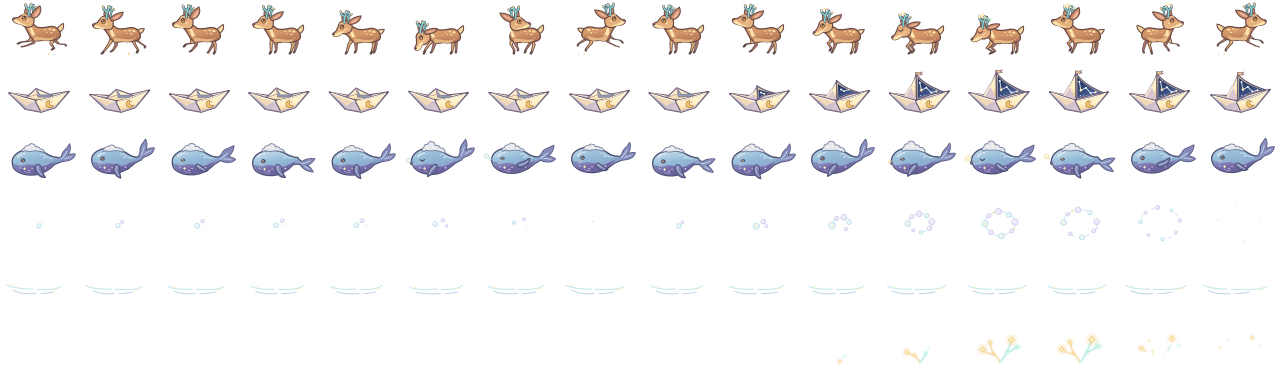
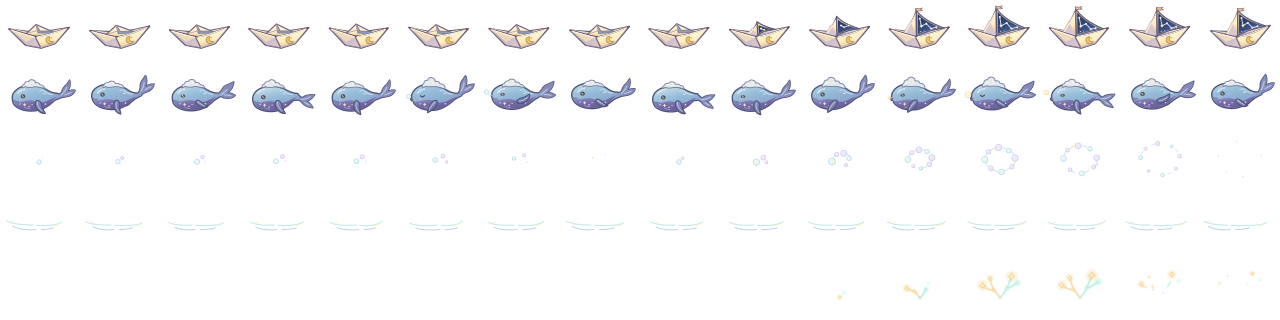
Repaint the star fawn with sixteen illustrated campfire poses

diff --git a/src/camp-encounter-art.ts b/src/camp-encounter-art.ts
@@ -12,14 +12,15 @@ const feet = benchRest("meadow", campSeat, campSeat).anchor;
 const cell = 48;
 const campAtlas = {sheet:"campEncounterVisitors", width:cell, height:cell} as const;
 const fantasyAtlas = {sheet:"campFantasy", width:80, height:64} as const;
+const fawnAtlas = {sheet:"campStarFawn", width:160, height:128} as const;
 const sprites = {
   bird:        {atlas:campAtlas, row:0, scale:.30, origin:[24,36], hit:[-.5,-4,5.3,4]},
   butterfly:   {atlas:campAtlas, row:1, scale:.21, origin:[24,26], hit:[0,-.7,4.2,3.2]},
   jelly:       {atlas:campAtlas, row:2, scale:.34, origin:[22,40], hit:[.7,-6.4,5.2,6.5]},
   marshmallow: {atlas:campAtlas, row:3, scale:.30, origin:[24,23], hit:[0,0,3.6,3]},
-  starFawn:    {atlas:fantasyAtlas, row:0, scale:.42, origin:[40,54], hit:[0,-9,12,9.5]},
-  moonBoat:    {atlas:fantasyAtlas, row:1, scale:.35, origin:[40,48], hit:[0,-3,10.8,5]},
-  cloudWhale:  {atlas:fantasyAtlas, row:2, scale:.39, origin:[40,36], hit:[0,-1,12,7]},
+  starFawn:    {atlas:fawnAtlas, row:0, scale:.21, origin:[80,108], hit:[0,-10,12,11]},
+  moonBoat:    {atlas:fantasyAtlas, row:0, scale:.35, origin:[40,48], hit:[0,-3,10.8,5]},
+  cloudWhale:  {atlas:fantasyAtlas, row:1, scale:.39, origin:[40,36], hit:[0,-1,12,7]},
 } as const;
 
 type Offset = readonly [number, number];
@@ -27,7 +28,7 @@ type Landmark = Parameters<typeof campEncounterLandmark>[0];
 // Named stops follow the outfit's painted knee, cuff, hem or mouth.
 // Coordinates are world-pixel offsets from the seated player's feet.
 const roast: Offset = [-27.5,-25.5];
-const fawnBow: Offset = [18.5,-1.2];
+const fawnBow: Offset = [21.5,-1.2];
 const paths: Record<CampEncounterId, {start: Offset; poses: readonly (Offset | Landmark)[]}> = {
   bird: {start: [-48,-30], poses: [
     [-40,-23],[-31,-15],[-23.5,-5],[-21,1],
@@ -112,29 +113,33 @@ const waitingLoops = {
   bird:      {rate:2, cels:[3,3,11,13,3,3]},
   butterfly: {rate:8, cels:[3,2,6,2,4,3]},
   jelly:     {rate:3.5, cels:[3,4,5,4,3,3]},
-  starFawn:  {rate:2, cels:[3,3,3,4,3]},
+  starFawn:  {rate:2, cels:[3,3,3,8,8,3]},
   moonBoat:  {rate:2, cels:[3,3,3,4,3]},
   cloudWhale:{rate:2.5, cels:[3,2,3,0]},
 } as const;
 
 function displayCel(event: Readonly<CampEncounter>, frame: number, still: boolean) {
-  if (still || event.phase !== "waiting") return frame;
+  if (still) return frame;
+  // Retrace the half-bow before coming upright; the seated player's timing stays in sync.
+  if (event.id === "starFawn" && event.phase === "active" && frame === 13 && event.elapsed < 2.2) return 10;
+  if (event.phase !== "waiting") return frame;
   if (event.id === "marshmallow") return event.elapsed < 3 ? frame : 8;
   const {rate,cels} = waitingLoops[event.id];
   return cels[Math.floor(event.elapsed*rate) % cels.length];
 }
 
-const antlerTips: readonly Offset[] = [[24.9,8.45],[23.3,13],[22.85,14.9],[28,4.4]];
-function drawAntlerStars(c: CanvasRenderingContext2D, frame: number, at: Point) {
+// Painted gold tip in each 160 × 128 cel, from the half-bow through the rise.
+const antlerTips: readonly Offset[] = [[41,24.5],[32,36.6],[32.2,43.2],[53.2,16.1]];
+function drawAntlerStars(c: CanvasRenderingContext2D, frame: number, deerCel: number, at: Point) {
   if (frame < 10) return;
   // The bottom star touches the painted tine until the fawn turns away.
   // The last two cels leave the broken constellation hanging over the grass.
-  const [u,v] = antlerTips[Math.min(frame-10,3)];
+  const [u,v] = antlerTips[Math.min(deerCel-10,3)];
   const deer = sprites.starFawn;
   const x = feet.x + (frame<14 ? at.x : fawnBow[0]) + (u-deer.origin[0])*deer.scale;
   const y = feet.y + (frame<14 ? at.y : fawnBow[1]) + (v-deer.origin[1])*deer.scale;
   const scale = .27;
-  c.drawImage(sceneArt.campFantasy,frame*80,5*64,80,64,x-40*scale,y-42*scale,80*scale,64*scale);
+  c.drawImage(sceneArt.campFantasy,frame*80,4*64,80,64,x-40*scale,y-42*scale,80*scale,64*scale);
 }
 
 // The first pearl appears at the painted muzzle as the whale exhales on cel 11.
@@ -157,7 +162,7 @@ function drawStarRing(c: CanvasRenderingContext2D, elapsed: number, still: boole
   const t = a === b ? 0 : (age-a.time)/(b.time-a.time);
   const x = feet.x+a.x+(b.x-a.x)*t, y = feet.y+a.y+(b.y-a.y)*t;
   const scale = .38;
-  c.drawImage(sceneArt.campFantasy,a.cel*80,3*64,80,64,x-40*scale,y-32*scale,80*scale,64*scale);
+  c.drawImage(sceneArt.campFantasy,a.cel*80,2*64,80,64,x-40*scale,y-32*scale,80*scale,64*scale);
 }
 
 function drawRoastingRack(c: CanvasRenderingContext2D) {
@@ -200,10 +205,12 @@ function drawVisitor(c: CanvasRenderingContext2D, event: Readonly<CampEncounter>
     c.beginPath(); c.ellipse(x-.4,feet.y+1.25,4.7,1.15,0,0,Math.PI*2); c.fill();
   }
   if (id === "starFawn") {
+    c.imageSmoothingEnabled = true;
+    c.imageSmoothingQuality = "high";
     c.fillStyle = "#333e4052"; c.beginPath();
     c.ellipse(x+.5,y+.4,8.6,1.45,0,0,Math.PI*2); c.fill();
   } else if (id === "moonBoat") {
-    c.drawImage(sheet,cel*width,4*height,width,height,
+    c.drawImage(sheet,cel*width,3*height,width,height,
       x-40*scale,y-32*scale+.4,width*scale,height*scale);
   }
   if (id === "butterfly") {
@@ -213,7 +220,7 @@ function drawVisitor(c: CanvasRenderingContext2D, event: Readonly<CampEncounter>
   }
   c.drawImage(sheet,cel*width,row*height,width,height,
     x-origin[0]*scale,y-origin[1]*scale,width*scale,height*scale);
-  if (id === "starFawn" && phase === "active") drawAntlerStars(c,frame,at);
+  if (id === "starFawn" && phase === "active") drawAntlerStars(c,frame,cel,at);
   if (id === "cloudWhale" && phase === "active") drawStarRing(c,event.elapsed,still);
   if (id === "marshmallow" && phase === "passive" && (frame === 5 || frame === 6)) {
     c.strokeStyle = "#ffe6bd9c"; c.lineWidth = .55; c.lineCap = "round";

diff --git a/src/scene-art.ts b/src/scene-art.ts
@@ -24,6 +24,7 @@ import patrickCampUrl from "./assets/patrick-camp.webp";
 import campfireFramesUrl from "./assets/meadow-campfire-frames.webp?no-inline";
 import campEncounterVisitorsUrl from "./assets/meadow-camp-encounter-visitors.webp?no-inline";
 import campFantasyUrl from "./assets/meadow-camp-fantasy.webp?no-inline";
+import campStarFawnUrl from "./assets/meadow-camp-star-fawn.webp?no-inline";
 import { prepareCampCostumes } from "./camp-costumes";
 import visitorsUrl from "./assets/anniversary-visitors.webp";
 import townNpcsUrl from "./assets/town-npcs.webp";
@@ -34,13 +35,13 @@ import { drawItem } from "./item-art";
 import { loadSceneImage, sceneImage } from "./texture-cache";
 export { skiesUrl, relicsUrl };
 
-const urls = {astrolabeMap:astrolabeMapUrl, balloonMap:balloonMapUrl, foxRest:foxRestUrl, balloonGuest:balloonGuestUrl, gardenerWork:gardenerWorkUrl, playgroundAnimations:playgroundAnimationsUrl, smallMapProps:smallMapPropsUrl, skies:skiesUrl, bass:bassUrl, relics:relicsUrl, astrolabeProps:astrolabePropsUrl, fox:foxUrl, picnic:picnicUrl, peachWalk:peachWalkUrl, quarry:townQuarryUrl, elders:elderResidentsUrl, xiaoye:xiaoyeUrl, xiaoyeEmbrace:xiaoyeEmbraceUrl, yeshenhua:yeshenhuaUrl, suyan:suyanUrl, townGuests:townGuestsUrl, patrickCamp:patrickCampUrl, campfireFrames:campfireFramesUrl, campEncounterVisitors:campEncounterVisitorsUrl, campFantasy:campFantasyUrl, anniversaryVisitors:visitorsUrl};
+const urls = {astrolabeMap:astrolabeMapUrl, balloonMap:balloonMapUrl, foxRest:foxRestUrl, balloonGuest:balloonGuestUrl, gardenerWork:gardenerWorkUrl, playgroundAnimations:playgroundAnimationsUrl, smallMapProps:smallMapPropsUrl, skies:skiesUrl, bass:bassUrl, relics:relicsUrl, astrolabeProps:astrolabePropsUrl, fox:foxUrl, picnic:picnicUrl, peachWalk:peachWalkUrl, quarry:townQuarryUrl, elders:elderResidentsUrl, xiaoye:xiaoyeUrl, xiaoyeEmbrace:xiaoyeEmbraceUrl, yeshenhua:yeshenhuaUrl, suyan:suyanUrl, townGuests:townGuestsUrl, patrickCamp:patrickCampUrl, campfireFrames:campfireFramesUrl, campEncounterVisitors:campEncounterVisitorsUrl, campFantasy:campFantasyUrl, campStarFawn:campStarFawnUrl, anniversaryVisitors:visitorsUrl};
 type Prop = keyof typeof urls;
 export const sceneArt = Object.fromEntries(Object.entries(urls).map(([key, url]) => [key, sceneImage(url)])) as Record<Prop, HTMLImageElement>;
 export const townNpcSheet = sceneImage(townNpcsUrl);
 const propsByScene: Record<BaseSceneId,Prop[]> = {
   room:["smallMapProps","skies","bass","fox"], garden:["balloonMap","smallMapProps","picnic","peachWalk","xiaoye","xiaoyeEmbrace","suyan","anniversaryVisitors"], challenge:["smallMapProps","elders","anniversaryVisitors"],
-  town:["smallMapProps","balloonMap","quarry","yeshenhua","townGuests","anniversaryVisitors"], meadow:["patrickCamp","campfireFrames","campEncounterVisitors","campFantasy","smallMapProps"], ruins:["astrolabeMap","relics","astrolabeProps","elders"],
+  town:["smallMapProps","balloonMap","quarry","yeshenhua","townGuests","anniversaryVisitors"], meadow:["patrickCamp","campfireFrames","campEncounterVisitors","campFantasy","campStarFawn","smallMapProps"], ruins:["astrolabeMap","relics","astrolabeProps","elders"],
 };
 const idleArtByScene: Partial<Record<SceneId, Prop>> = {
   room: "foxRest", garden: "balloonGuest", challenge: "gardenerWork", town: "playgroundAnimations",

diff --git a/tests/camp-fantasy-art.test.ts b/tests/camp-fantasy-art.test.ts
@@ -1,34 +1,45 @@
 import assert from "node:assert/strict";
 import { createHash } from "node:crypto";
-import { readFile } from "node:fs/promises";
 import test from "node:test";
+import { fileURLToPath } from "node:url";
 import sharp from "sharp";
 
-test("every fantasy visitor has sixteen complete cels and both magical responses have visible key art", async () => {
-  const file = new URL("../src/assets/meadow-camp-fantasy.webp",import.meta.url);
-  const {data,info} = await sharp(await readFile(file))
-    .ensureAlpha().raw().toBuffer({resolveWithObject:true});
-  const w=80, h=64;
-  assert.deepEqual([info.width,info.height],[16*w,6*h]);
-  for (let row=0; row<6; row++) {
-    const poses = new Set<string>();
-    for (let col=0; col<16; col++) {
+async function checkAtlas(file: string, width: number, height: number, rows: readonly string[]) {
+  const path = fileURLToPath(new URL(`../src/assets/${file}.webp`, import.meta.url));
+  const {data, info} = await sharp(path).ensureAlpha().raw().toBuffer({resolveWithObject: true});
+  assert.deepEqual([info.width, info.height], [16 * width, rows.length * height]);
+
+  for (const [row, name] of rows.entries()) {
+    const isVisitor = name === "fawn" || name === "boat" || name === "whale";
+    const drawings = new Set<string>();
+    for (let col = 0; col < 16; col++) {
       const hash = createHash("sha256");
       let visible = 0;
-      for (let y=0; y<h; y++) {
-        const start = 4*((row*h+y)*info.width+col*w);
-        const line = data.subarray(start,start+4*w);
-        if (row<3) hash.update(line);
-        for (let x=0; x<w; x++) {
-          const alpha = line[x*4+3];
-          if (x===0 || x===w-1 || y===0 || y===h-1) assert.equal(alpha,0,`cropped drawing at ${row}/${col}`);
-          if (alpha>32) visible++;
+      for (let y = 0; y < height; y++) {
+        const start = 4 * ((row * height + y) * info.width + col * width);
+        const line = data.subarray(start, start + 4 * width);
+        hash.update(line);
+        for (let x = 0; x < width; x++) {
+          const alpha = line[x * 4 + 3];
+          if (x === 0 || x === width - 1 || y === 0 || y === height - 1) {
+            assert.equal(alpha, 0, `cropped drawing in ${name} cel ${col}`);
+          }
+          if (alpha > 32) visible++;
         }
       }
-      // Rows 3 and 5 are the whale's breath and the fawn's antler constellation.
-      if (row<3 || row===4 || col===12) assert.ok(visible>0,`empty cel at ${row}/${col}`);
-      if (row<3) poses.add(hash.digest("hex"));
+      if (isVisitor || name === "wake" || col === 12) {
+        assert.ok(visible > 0, `empty drawing in ${name} cel ${col}`);
+      }
+      drawings.add(hash.digest("hex"));
     }
-    if (row<3) assert.equal(poses.size,16,`missing drawing in visitor row ${row}`);
+    if (isVisitor) assert.equal(drawings.size, 16, `missing pose for ${name}`);
   }
+}
+
+test("all sixteen painted fawn poses fit the high-resolution atlas", async () => {
+  await checkAtlas("meadow-camp-star-fawn", 160, 128, ["fawn"]);
+});
+
+test("the other fantasy visitors and their effects have complete, uncropped cels", async () => {
+  await checkAtlas("meadow-camp-fantasy", 80, 64, ["boat", "whale", "ring", "wake", "antlers"]);
 });
